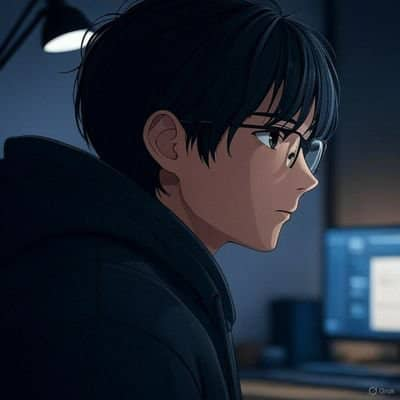
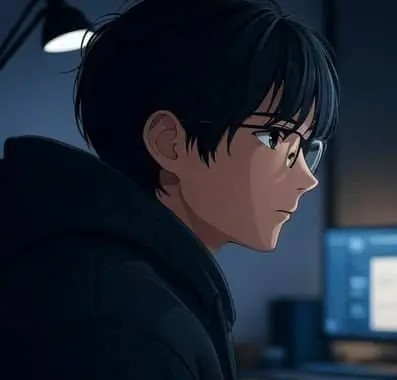
commit

diff --git a/src/Components/Services.jsx b/src/Components/Services.jsx
@@ -1,42 +1,5 @@
 import React from "react";
 import { DotIcon, GitGraph, Package, Rocket, Table2 } from "lucide-react";
-
-const skills = [
-  "Product Design",
-  "Brand Identity Design",
-  "Branding",
-  "Packaging Design",
-  "Mockup Design",
-];
-
-const flowLeft = [
-  "Brand Graphics",
-
-  "Brand Migration",
-
-  "Package Design",
-
-  "Branding",
-
-  "Slide Decks",
-
-  "Copywriting",
-];
-const flowRight = [
-  'Brand Visibility',
-
-'Brand Integrations',
-
-'Optimization',
-
-'Brand Landing Pages',
-
-'Social Media',
-
-'Icons',
-
-];
-
 const array = [
   {
     icon: <GitGraph />,
@@ -62,76 +25,25 @@ const array = [
 
 const Services = () => {
   return (
-    <section className="text-neutral" id="services">
-      <div className=" border border-t-neutral-500 border-b-neutral-900 rounded-4xl px-4 md:px-22 text-[16px] py-20">
-        <div className="flex flex-col  xx:flex-row xx:gap-16 items-center mb-7 xx:mb-0 pb-10">
-          {/* Left Section */}
-          <div>
-            <div>
-              <span className="xx:mt-0 border border-neutral-700  rounded-3xl bg-neutral-900  inline-flex items-center p-2 pr-4 mb-5 text-white">
-                <DotIcon />
-                <p>Design process</p>
-              </span>
-              <p className="text-5xl text-secondary pb-6 md:text-2xl lg:text-6xl xl:text-8xl fade-in">
-                Services
-              </p>
+    <section className="z-50">
+      <h2 className="text-3xl font-bold text-center text-white mb-10">
+        Services
+      </h2>
+      <div className="grid xx:grid-cols-2 gap-5 fade-in-right">
+        {array.map((item, key) => (
+          <div
+            key={key}
+            className="relative bg-gray-950 px-8 py-10 rounded-3xl"
+          >
+            <div className="inline-flex items-center gap-1.5 text-white">
+              <p>{item.icon}</p>
+              <p className="text-2xl">{item.title}</p>
             </div>
+
+            <hr className="text-neutral-700 my-4" />
+            <p className="text-neutral">{item.body}</p>
           </div>
-          {/* right Section */}
-          <div className="max-w-[100vw] max-h-[35vh]  md:min-h-[65vh] xx:max-w-[42vw] xx:max-h-[32vw] relative items-center flex overflow-hidden rounded-3xl">
-            <img
-              className="grayscale-100 md:w-full "
-            //   src={asset.services}
-              alt=""
-              srcset=""
-            />
-          </div>
-        </div>
-
-        {/* under Section */}
-
-        <div className="grid xx:grid-cols-2 gap-5 fade-in-right">
-          {array.map((item, key) => (
-            <div
-              key={key}
-              className="relative bg-neutral-950 px-8 py-10 rounded-3xl"
-            >
-              <div className="inline-flex items-center gap-1.5 text-white">
-                <p>{item.icon}</p>
-                <p className="text-2xl">{item.title}</p>
-              </div>
-
-              <hr className="text-neutral-700 my-4" />
-              <p className="text-neutral">{item.body}</p>
-            </div>
-          ))}
-        </div>
-
-        {/* scroll section */}
-        <div className="relative overflow-hidden w-full flex flex-col justify-center">
-           {/* scrolling div */}
-          <div className=" gap-15 animate-scroll flex w-max pt-15 pb-8">
-            {[...flowLeft,...flowLeft,...flowLeft,...flowLeft].map(
-              (items, key) => (
-                <button key={key} className="border-0 bg-neutral-950 text-[16px]">{items}</button>
-              )
-            )}
-          </div>
-           {/* scrolling div */}
-         <div className=" gap-15 animate-scroll-right flex w-max pb-6">
-            {[...flowRight,...flowRight,...flowRight,...flowRight].map(
-              (items, key) => (
-                <button key={key} className="border-0 bg-neutral-950 text-[16px]">{items}</button>
-              )
-            )}
-          </div>
-          Left Blur
-          <div className="absolute left-0 top-0 bottom-0 h-full w-20 bg-gradient-to-r from-black to-transparent pointer-events-none" />
-
-          {/* Right Blur */}
-          <div className="absolute right-0 top-0 h-full w-20 bg-gradient-to-l from-black/80 to-transparent pointer-events-none" />
-        </div>
-
+        ))}
       </div>
     </section>
   );

diff --git a/src/Components/Skills.jsx b/src/Components/Skills.jsx
@@ -1,46 +1,61 @@
-import React from 'react'
-import Card from './Card';
+import React from "react";
+import Card from "./Card";
+import { asset } from "../Images/asset";
 
 const skills = [
-    {
-      icon: "/icons/solidity.svg",
-      title: "Solidity",
-      description: "Smart contract development on Ethereum and EVM chains.",
-    },
-    {
-      icon: "/icons/react.svg",
-      title: "React",
-      description: "Frontend development with component-based architecture.",
-    },
-    {
-      icon: "/icons/tailwind.svg",
-      title: "Tailwind CSS",
-      description: "Rapid styling with utility-first CSS.",
-    },
-    {
-      icon: "/icons/ethers.svg",
-      title: "Ethers.js",
-      description: "Blockchain interaction and contract integration.",
-    },
-  ];
+  {
+    icon: asset.react,
+    title: "React",
+    description: "I use React to build interactive and reusable components for web applications. Its virtual DOM and ecosystem help me create fast, scalable, and user-friendly interfaces.",
+  },
+  {
+    icon: asset.tailwind,
+    title: "Tailwind CSS",
+    description: "Tailwind allows me to design responsive and consistent layouts with ease. Its utility-first classes speed up development while keeping my codebase clean.",
+  },
+  {
+    icon: asset.nodejs,
+    title: "Node.js",
+    description: "Node.js helps me develop fast, event-driven backend services. I use it to manage APIs, handle real-time data, and connect frontend apps with databases.",
+  },
+  {
+    icon: asset.express,
+    title: "Express.js",
+    description: "With Express, I structure my backend logic and create RESTful APIs efficiently. It simplifies routing and middleware, making server-side development smoother.",
+  },
+  {
+    icon: asset.mongodb,
+    title: "MongoDB",
+    description: "MongoDB is my go-to database for handling flexible, document-based data. It scales well with applications and integrates seamlessly with Node.js and Express.",
+  },
+  {
+    icon: asset.figma,
+    title: "Figma",
+    description: "Figma is my preferred tool for creating wireframes, prototypes, and polished UI/UX designs. I use it to plan and visualize layouts before coding, ensuring a smooth handoff from design to development. Its collaboration features make it easy to iterate quickly and adapt based on feedback.",
+  },
+];
 
 
 const Skills = () => {
   return (
-    <section className="py-16 bg-black">
+    <section className="py-16">
       <h2 className="text-3xl font-bold text-center text-white mb-10">
         Skills & Stack
       </h2>
-      <div className="grid grid-cols-1 sm:grid-cols-2 md:grid-cols-3 lg:grid-cols-4 gap-8 px-6">
-        {[...skills].map((skill, index) => (
-          <Card key={index} {...skill} />
-        ))}
+      <div className="relative overflow-hidden">
+        <div className=" flex gap-10">
+            {[...skills].map((skill, index) => (
+              <Card key={index} {...skill} />
+            ))}
+        </div>
+         {/* Left Blur */}
+          <div className="absolute left-0 top-0 bottom-0 h-full w-20 bg-gradient-to-r from-black to-transparent pointer-events-none" />
+
+          {/* Right Blur */}
+          <div className="absolute right-0 top-0 h-full w-20 bg-gradient-to-l from-black/80 to-transparent pointer-events-none" />
       </div>
     </section>
   );
-}
+};
 
-export default Skills
-
-
-
+export default Skills;

diff --git a/src/Components/Hero.jsx b/src/Components/Hero.jsx
@@ -3,22 +3,24 @@ import { asset } from "../Images/asset";
 
 const Hero = () => {
   return (
-    <div>
+    <section>
       <div className="text-gray-400 flex items-center justify-between gap-50 h-screen ">
-           <div className="flex-1">
+        <div className="flex-1">
           <h1>Akhuemokhan Isaiah</h1>
           <p>
-            L  orem ipsum dolor sit amet consectetur adipisicing elit. Velit odit
+            L orem ipsum dolor sit amet consectetur adipisicing elit. Velit odit
             maxime corrupti atque aliquam est illum, nam commodi consequatur
             fugit natus animi? Nobis dicta neque maxime sapiente quia sed nemo!
           </p>
           <button className="bg-white">Let's get started</button>
         </div>
-          <div className="">
-          <img src={asset.profile} alt="" srcset="" />
+        <div className="relative overflow-hidden fade-in-left rounded-2xl">
+          <img src={asset.profile} alt="" srcset="" className="relative rounded-2xl mix-blend-screen"/>
+
+         
         </div>
       </div>
-    </div>
+    </section>
   );
 };
 

diff --git a/src/Components/Contact.jsx b/src/Components/Contact.jsx
@@ -2,7 +2,7 @@ import { Mail, Github, Twitter } from "lucide-react";
 
 const Contact = () => {
   return (
-    <section className="py-16 bg-black text-center">
+    <section className="py-16 text-center">
       <h2 className="text-3xl font-bold text-white mb-6">Get in Touch</h2>
       <p className="text-gray-400 mb-10">
         Always open to collaborations, hackathons, or just chatting Web3.
@@ -19,7 +19,7 @@ const Contact = () => {
 
         {/* GitHub */}
         <a
-          href="https://github.com/yourprofile"
+          href="https://github.com/DonCarlosz"
           target="_blank"
           className="p-4 bg-gray-900 rounded-full shadow-lg hover:scale-110 hover:bg-gray-700 transition"
         >
@@ -28,7 +28,7 @@ const Contact = () => {
 
         {/* Twitter/X */}
         <a
-          href="https://twitter.com/yourprofile"
+          href="https://twitter.com/2d4rc"
           target="_blank"
           className="p-4 bg-gray-900 rounded-full shadow-lg hover:scale-110 hover:bg-blue-500 transition"
         >

diff --git a/src/Components/Home.jsx b/src/Components/Home.jsx
@@ -10,18 +10,16 @@ import Services from "./Services";
 
 const Home = () => {
   return (
-    <div className="bg-black">
-      {/* <div className="w-full inset-0 h-[100vh] lg:flex justify-center items-center">
+    <div>
+      <div className="fixed -z-10 inset-0">
         <DarkVeil />
-      </div> */}
+      </div>
       <NavBar />
-      <div className="px-45">
-        <Hero/>
+      <div className="px-45 z-10">
+         <Hero/>
         <Skills/>
-         <Services/>
+        <Services/>
         <Contact/>
-       
-
       </div>
       
     </div>

diff --git a/src/Components/Card.jsx b/src/Components/Card.jsx
@@ -2,7 +2,7 @@ import React from 'react'
 
 const Card = ({ icon, title, description }) => {
   return (
-    <div className="bg-gray-900 rounded-2xl p-6 shadow-lg hover:shadow-xl hover:scale-105 transition transform duration-300">
+    <div className="bg-gray-950 rounded-2xl min-w-50 p-6 shadow-lg hover:shadow-xl hover:scale-105 transition transform duration-300">
       <div className="flex items-center mb-4">
         <img src={icon} alt={title} className="w-10 h-10 mr-4" />
         <h3 className="text-xl font-semibold text-white">{title}</h3>

diff --git a/src/Images/asset.js b/src/Images/asset.js
@@ -1,5 +1,20 @@
 import profile from "./profile.jpg";
+import figma from "./Figma.svg";
+import react from "./React.svg";
+import nodejs from "./Node.js.svg";
+import tailwind from './Tailwind.svg'
+import mongodb from './MongoDB.svg'
+import express from './Express.svg'
+
+
 
 export const asset = {
     profile,
+    figma,
+    react,
+    nodejs,
+    tailwind,
+    mongodb,
+    express
+
 }

diff --git a/src/Components/NavBar.jsx b/src/Components/NavBar.jsx
@@ -6,7 +6,6 @@ const navContents = [
   { name: "Projects ", href: "#project" },
   { name: "Testimonials ", href: "#testimonials" },
   { name: "Contact ", href: "#contact" },
-  { name: "Get Template", href: "" },
 ];
 
 const NavBar = () => {
